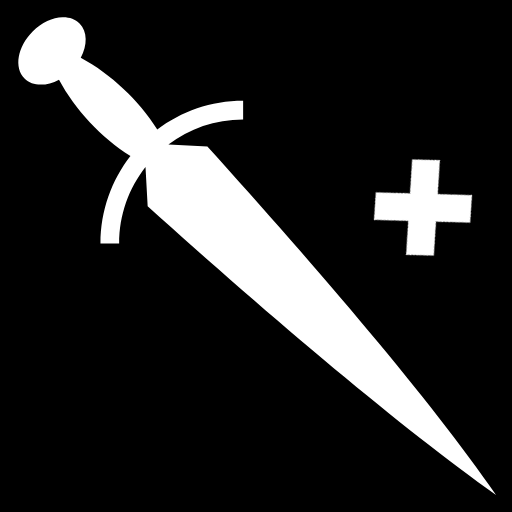
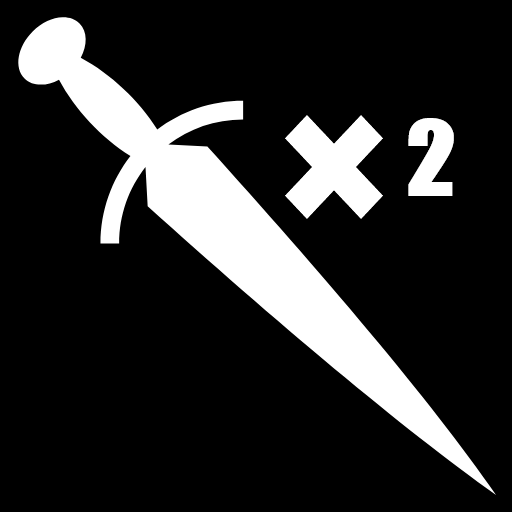
double attacks

Changed region(s): [[0.5625, 0.2188, 0.9375, 0.5]]

diff --git a/Assets/Scripts/Weapons/WhipWeapon.cs b/Assets/Scripts/Weapons/WhipWeapon.cs
@@ -30,18 +30,28 @@ public class WhipWeapon : WeaponBase
 
     public override void Attack()
     {
-        if (playerMovement.lastHorizontalVector > 0)
-        {
-            rightWhipObject.SetActive(true);
-            Collider2D[] colliders = Physics2D.OverlapBoxAll(rightWhipObject.transform.position, attackSize, 0f);
-            ApplyDamage(colliders);
+        StartCoroutine(AttackProcess());
+    }
 
-        }
-        else
+    IEnumerator AttackProcess()
+    {
+        for (int i=0; i< weaponStats.numberOfAttacks; i++)
         {
-            leftWhipObject.SetActive(true);
-            Collider2D[] colliders = Physics2D.OverlapBoxAll(leftWhipObject.transform.position, attackSize, 0f);
-            ApplyDamage(colliders);
+            if (playerMovement.lastHorizontalVector > 0)
+            {
+                rightWhipObject.SetActive(true);
+                Collider2D[] colliders = Physics2D.OverlapBoxAll(rightWhipObject.transform.position, attackSize, 0f);
+                ApplyDamage(colliders);
+
+            }
+            else
+            {
+                leftWhipObject.SetActive(true);
+                Collider2D[] colliders = Physics2D.OverlapBoxAll(leftWhipObject.transform.position, attackSize, 0f);
+                ApplyDamage(colliders);
+            }
+            yield return new WaitForSeconds(0.3f);
         }
+       
     }
 }

diff --git a/Assets/Scripts/Weapons/knifeProjectile.cs b/Assets/Scripts/Weapons/knifeProjectile.cs
@@ -8,6 +8,9 @@ public class knifeProjectile : MonoBehaviour
 
     [SerializeField] float speed;
     public int damage = 5;
+
+    float timeToLeave = 6f;
+
     public void SetDirection(float dir_x, float dir_y)
     {
         direction = new Vector3(dir_x, dir_y);
@@ -25,7 +28,7 @@ public class knifeProjectile : MonoBehaviour
     {
         transform.position += direction * speed * Time.deltaTime;
 
-        if(Time.frameCount % 6 == 0)
+        if (Time.frameCount % 6 == 0)
         {
 
 
@@ -44,8 +47,13 @@ public class knifeProjectile : MonoBehaviour
             {
                 Destroy(gameObject);
             }
-        } 
-    }
+        }
 
+        timeToLeave -= Time.deltaTime;
+        if (timeToLeave < 0f)
+        {
+            Destroy(gameObject);
+        }
+    }
 
 }

diff --git a/Assets/Scripts/Weapons/KnifeWeapon.cs b/Assets/Scripts/Weapons/KnifeWeapon.cs
@@ -24,7 +24,7 @@ public class KnifeWeapon : WeaponBase
             if (weaponStats.numberOfAttacks > 1)
             {
                 newKnifePosition.y -= (spread * (weaponStats.numberOfAttacks -1 )) / 2;
-                newKnifePosition.y -= i * spread;
+                newKnifePosition.y += i * spread;
             }
 
             knife.transform.position = newKnifePosition;

diff --git a/Assets/Scripts/Weapons/DisableAfterTime.cs b/Assets/Scripts/Weapons/DisableAfterTime.cs
@@ -4,7 +4,7 @@ using UnityEngine;
 
 public class DisableAfterTime : MonoBehaviour
 {
-    float timeToDisable = 0.8f;
+    float timeToDisable = 0.2f;
     float timer;
 
     private void OnEnable()
